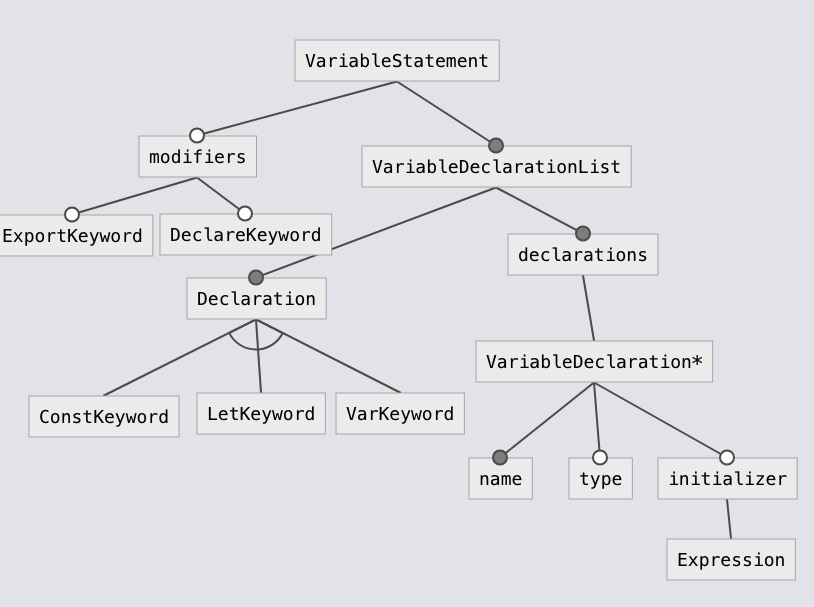
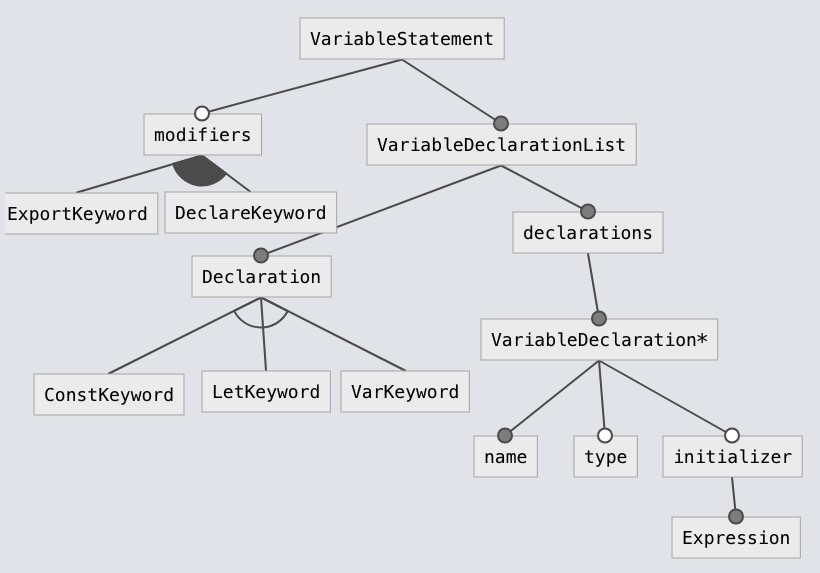
updated variables

diff --git a/3groupMembersModel/variable/code.ts b/3groupMembersModel/variable/code.ts
@@ -6,9 +6,14 @@ export const VariableStatement: FeatureModel = {
     {
       name: "modifiers",
       parentRelation: "optional",
+      childrenRelation: "or",
       children: [
-        { name: "ExportKeyword", parentRelation: "optional" },
-        { name: "DeclareKeyword", parentRelation: "optional" },
+        {
+          name: "ExportKeyword",
+        },
+        {
+          name: "DeclareKeyword",
+        },
       ],
     },
     {
@@ -17,12 +22,18 @@ export const VariableStatement: FeatureModel = {
       children: [
         {
           name: "Declaration",
-          childrenRelation: "xor",
           parentRelation: "mandatory",
+          childrenRelation: "xor",
           children: [
-            { name: "ConstKeyword" },
-            { name: "LetKeyword" },
-            { name: "VarKeyword" },
+            {
+              name: "ConstKeyword",
+            },
+            {
+              name: "LetKeyword",
+            },
+            {
+              name: "VarKeyword",
+            },
           ],
         },
         {
@@ -31,16 +42,25 @@ export const VariableStatement: FeatureModel = {
           children: [
             {
               name: "VariableDeclaration*",
+              parentRelation: "mandatory",
               children: [
                 {
                   name: "name",
                   parentRelation: "mandatory",
                 },
-                { name: "type", parentRelation: "optional" },
+                {
+                  name: "type",
+                  parentRelation: "optional",
+                },
                 {
                   name: "initializer",
                   parentRelation: "optional",
-                  children: [{ name: "Expression" }],
+                  children: [
+                    {
+                      name: "Expression",
+                      parentRelation: "mandatory",
+                    },
+                  ],
                 },
               ],
             },
